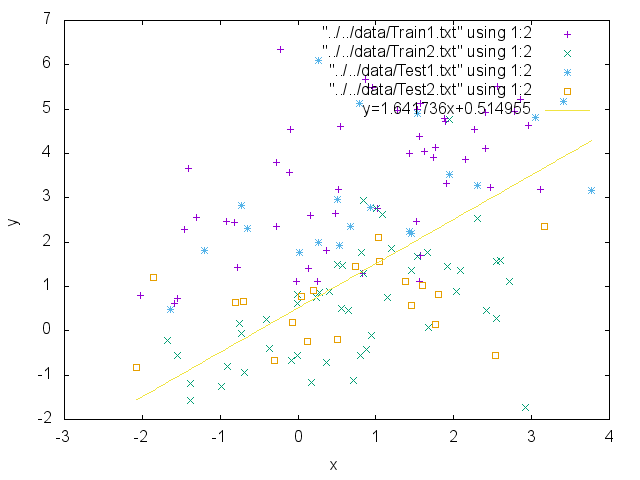
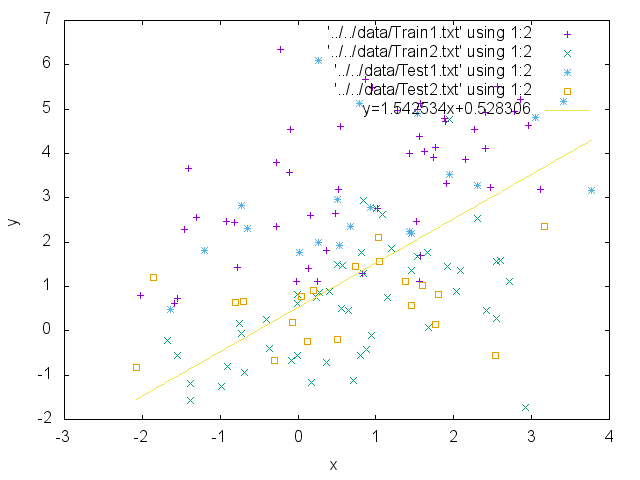
not use shell script

Changed region(s): [[0.5, 0.0625, 0.7188, 0.25], [0.75, 0.0625, 0.8438, 0.25]]

diff --git a/code/cpp/kadai1.cpp b/code/cpp/kadai1.cpp
@@ -173,11 +173,28 @@ int main(int argc, char* argv[])
     lms.fit(X_train, y_train);
     // Eigen::VectorXd y_pred = lms.predict(X_test);
     double score = lms.score(X_test, y_test);
-    printf("%lf,", score);
+    // printf("%lf,", score);
 
     double a = 1. / lms.w[1] * (0.5 - lms.w[2]);
     double b = 1. / lms.w[1] * (-lms.w[0]);
-    printf("y=%lfx+%lf\n", a, b);
+    std::vector<std::string> gp_command_list;
+    gp_command_list.push_back("set xlabel 'x';");
+    gp_command_list.push_back("set ylabel 'y';");
+    gp_command_list.push_back("plot '../../data/Train1.txt' using 1:2;");
+    gp_command_list.push_back("replot '../../data/Train2.txt' using 1:2;");
+    gp_command_list.push_back("replot '../../data/Test1.txt' using 1:2;");
+    gp_command_list.push_back("replot '../../data/Test2.txt' using 1:2;");
+    gp_command_list.push_back("replot y="+std::to_string(a)+"x+"+std::to_string(b)+";");
+    gp_command_list.push_back("set term png;");
+    gp_command_list.push_back("set output 'kadai1.png';");
+    gp_command_list.push_back("replot;");
+    std::string gpc = "gnuplot -e \"";
+    for (int i=0; i<gp_command_list.size(); i++) {
+        gpc += gp_command_list[i];
+        gpc += " ";
+    }
+    gpc += "\"";
+    std::system(gpc.c_str());
     return 0;
 }
 
